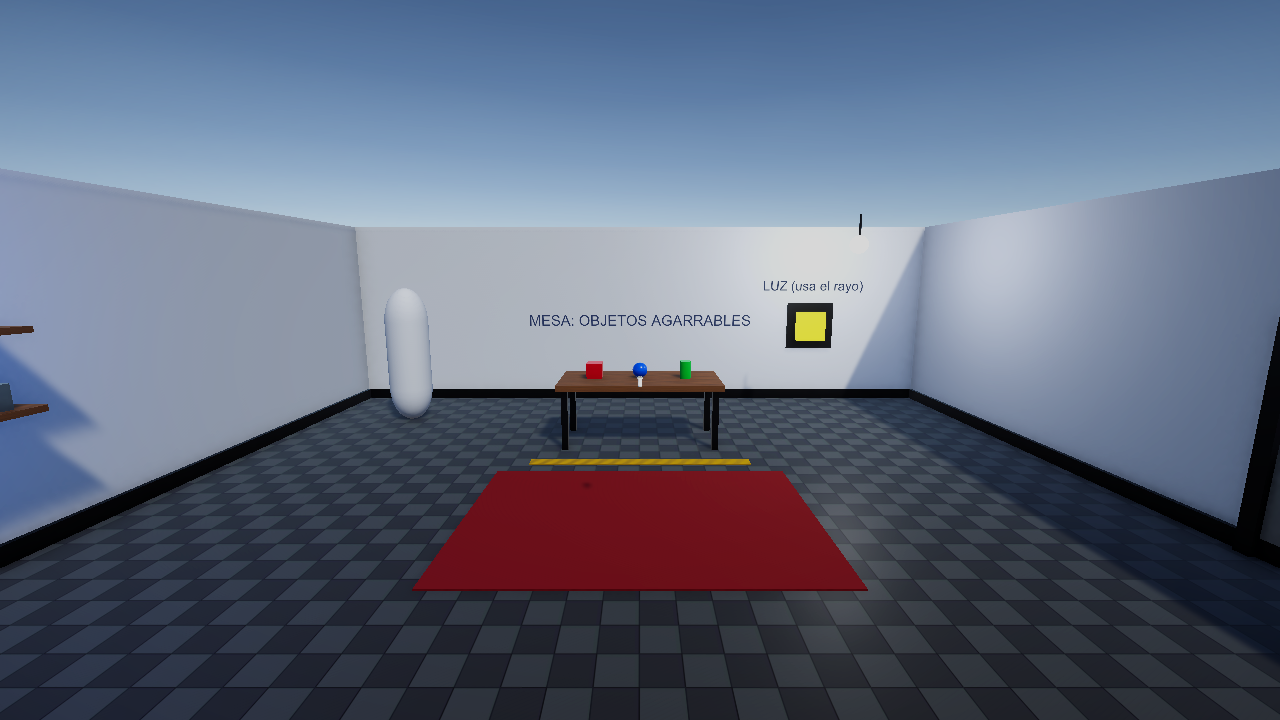
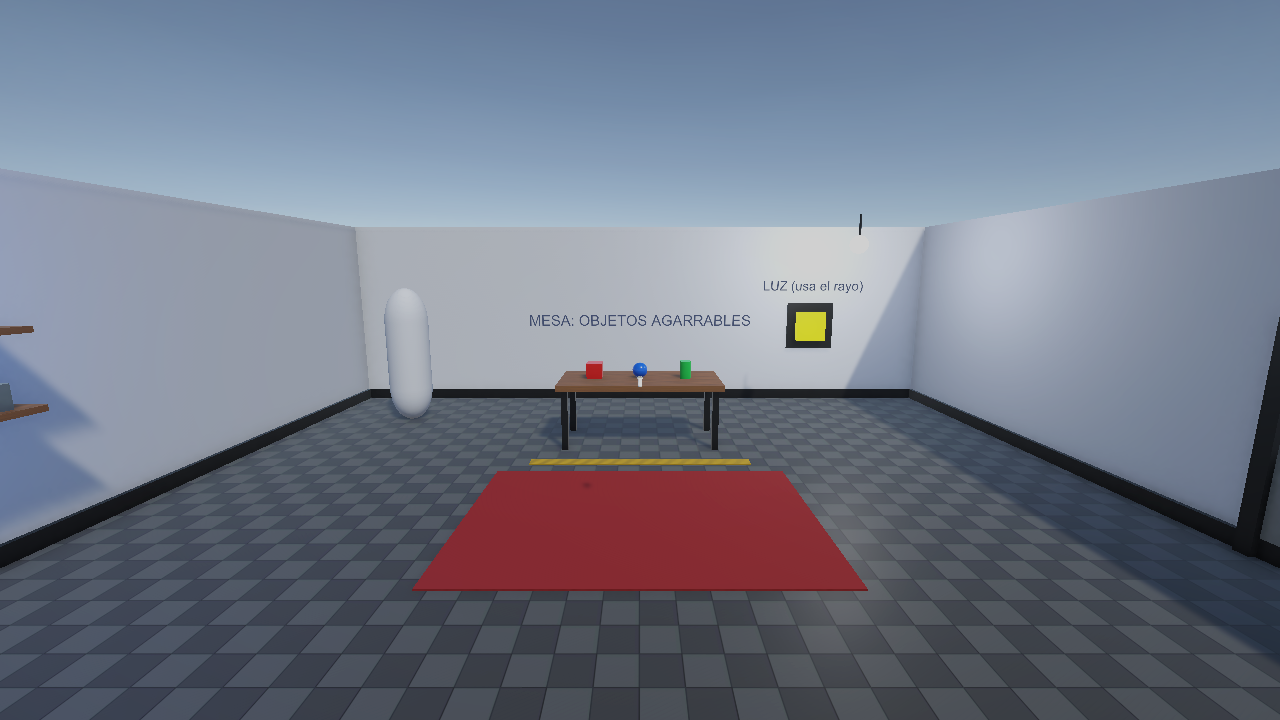
Camara PC con cursor bloqueado, correr con Shift, agacharse; README y capturas actualizados

diff --git a/Assets/Scripts/PCMouseInteraction.cs b/Assets/Scripts/PCMouseInteraction.cs
@@ -1,41 +1,139 @@
 using UnityEngine;
 using UnityEngine.InputSystem;
+using UnityEngine.InputSystem.XR;
 using UnityEngine.XR.Interaction.Toolkit;
 using UnityEngine.XR.Interaction.Toolkit.Interactables;
 using UnityEngine.XR.Interaction.Toolkit.Interactors;
-using UnityEngine.XR.Interaction.Toolkit.Locomotion.Teleportation;
+using UnityEngine.XR.Management;
 
-// Modo PC (sin visor): la mira del centro de la pantalla usa el XR Interaction Toolkit.
-// Clic izquierdo: agarrar / soltar objetos, pulsar el boton o abrir la puerta. F: teletransporte. H: mostrar/ocultar ayuda.
+// Modo PC (sin visor): camara en primera persona con mouse + teclado que usa el XR Interaction Toolkit.
+// Si hay un visor VR activo, este script no toca nada y el rig funciona con los mandos.
 public class PCMouseInteraction : MonoBehaviour
 {
+    [Header("Referencias XR")]
     [SerializeField] XRInteractionManager manager;
     [SerializeField] NearFarInteractor interactor;
-    [SerializeField] TeleportationProvider teleportProvider;
+    [SerializeField] Transform originTransform;
+    [SerializeField] Transform cameraOffset;
+    [SerializeField] Transform leftController;
+    [SerializeField] Transform rightController;
+    [SerializeField] GameObject deviceSimulator;
+
+    [Header("Ajustes PC")]
+    [SerializeField] float lookSensitivity = 0.08f;
+    [SerializeField] float walkSpeed = 2.5f;
+    [SerializeField] float runMultiplier = 2f;
+    [SerializeField] float crouchMultiplier = 0.5f;
+    [SerializeField] float standEyeHeight = 1.65f;
+    [SerializeField] float crouchEyeHeight = 0.95f;
     [SerializeField] float reach = 6f;
 
     Camera cam;
+    CharacterController controller;
     IXRSelectInteractable held;
+    bool pcMode;
+    float yaw, pitch, eyeHeight, verticalSpeed;
     string hint = "";
     bool showHelp = true;
     GUIStyle boxStyle, hintStyle, titleStyle;
 
     void Start()
     {
+        var xr = XRGeneralSettings.Instance;
+        bool headsetActive = xr != null && xr.Manager != null && xr.Manager.activeLoader != null;
+        if (deviceSimulator != null) deviceSimulator.SetActive(false);
+        if (headsetActive) { enabled = false; return; }
+
+        pcMode = true;
         cam = Camera.main;
+        eyeHeight = standEyeHeight;
+
+        foreach (var d in originTransform.GetComponentsInChildren<TrackedPoseDriver>(true)) d.enabled = false;
+        // Sin mandos reales el modality manager apagaria los controladores; los dejamos activos para el modo PC.
+        foreach (var m in originTransform.GetComponentsInChildren<UnityEngine.XR.Interaction.Toolkit.Inputs.XRInputModalityManager>(true)) m.enabled = false;
+        if (leftController != null) leftController.gameObject.SetActive(true);
+        if (rightController != null) rightController.gameObject.SetActive(true);
+        cam.transform.localPosition = Vector3.zero;
+        cam.transform.localRotation = Quaternion.identity;
+        cameraOffset.localPosition = new Vector3(0f, eyeHeight, 0f);
+
+        foreach (var c in new[] { leftController, rightController })
+        {
+            if (c == null) continue;
+            c.SetParent(cam.transform, false);
+            c.localRotation = Quaternion.identity;
+        }
+        if (leftController != null) leftController.localPosition = new Vector3(-0.25f, -0.25f, 0.5f);
+        if (rightController != null) rightController.localPosition = new Vector3(0.25f, -0.25f, 0.6f);
+
+        controller = originTransform.GetComponent<CharacterController>();
+        if (controller != null)
+        {
+            controller.height = 1.7f;
+            controller.radius = 0.25f;
+            controller.center = new Vector3(0f, 0.85f, 0f);
+        }
+        yaw = originTransform.eulerAngles.y;
+        LockCursor(true);
+    }
+
+    void LockCursor(bool locked)
+    {
+        Cursor.lockState = locked ? CursorLockMode.Locked : CursorLockMode.None;
+        Cursor.visible = !locked;
     }
 
     void Update()
     {
-        if (cam == null) { cam = Camera.main; return; }
+        if (!pcMode) return;
         var mouse = Mouse.current;
         var kb = Keyboard.current;
-        if (mouse == null) return;
+        if (mouse == null || kb == null) return;
 
-        if (kb != null && kb.hKey.wasPressedThisFrame) showHelp = !showHelp;
+        if (kb.escapeKey.wasPressedThisFrame) LockCursor(false);
+        if (kb.hKey.wasPressedThisFrame) showHelp = !showHelp;
+
+        bool locked = Cursor.lockState == CursorLockMode.Locked;
+        if (!locked)
+        {
+            if (mouse.leftButton.wasPressedThisFrame) LockCursor(true);
+            return;
+        }
+
+        Look(mouse);
+        Move(kb);
         if (mouse.leftButton.wasPressedThisFrame) OnClick();
-        if (kb != null && kb.fKey.wasPressedThisFrame) TryTeleport();
+        if (kb.fKey.wasPressedThisFrame) TryTeleport();
         UpdateHint();
+    }
+
+    void Look(Mouse mouse)
+    {
+        var delta = mouse.delta.ReadValue() * lookSensitivity;
+        yaw += delta.x;
+        pitch = Mathf.Clamp(pitch - delta.y, -89f, 89f);
+        originTransform.rotation = Quaternion.Euler(0f, yaw, 0f);
+        cam.transform.localRotation = Quaternion.Euler(pitch, 0f, 0f);
+    }
+
+    void Move(Keyboard kb)
+    {
+        bool crouching = kb.cKey.isPressed || kb.leftCtrlKey.isPressed;
+        bool running = kb.leftShiftKey.isPressed && !crouching;
+
+        float targetEye = crouching ? crouchEyeHeight : standEyeHeight;
+        eyeHeight = Mathf.MoveTowards(eyeHeight, targetEye, 4f * Time.deltaTime);
+        cameraOffset.localPosition = new Vector3(0f, eyeHeight, 0f);
+
+        float x = (kb.dKey.isPressed ? 1f : 0f) - (kb.aKey.isPressed ? 1f : 0f);
+        float z = (kb.wKey.isPressed ? 1f : 0f) - (kb.sKey.isPressed ? 1f : 0f);
+        float speed = walkSpeed * (running ? runMultiplier : 1f) * (crouching ? crouchMultiplier : 1f);
+        var move = (originTransform.right * x + originTransform.forward * z);
+        if (move.sqrMagnitude > 1f) move.Normalize();
+
+        if (controller == null) { originTransform.position += move * speed * Time.deltaTime; return; }
+        verticalSpeed = controller.isGrounded ? -1f : verticalSpeed + Physics.gravity.y * Time.deltaTime;
+        controller.Move((move * speed + Vector3.up * verticalSpeed) * Time.deltaTime);
     }
 
     void UpdateHint()
@@ -55,7 +153,7 @@ public class PCMouseInteraction : MonoBehaviour
             hint = door != null ? (door.IsOpen ? "[Clic izquierdo] Cerrar puerta" : "[Clic izquierdo] Abrir puerta")
                                 : "[Clic izquierdo] Encender / apagar la luz";
         }
-        else if (hit.collider.GetComponentInParent<TeleportationArea>() != null)
+        else if (hit.collider.GetComponentInParent<UnityEngine.XR.Interaction.Toolkit.Locomotion.Teleportation.TeleportationArea>() != null)
             hint = "[F] Teletransportarse aqui";
     }
 
@@ -86,14 +184,16 @@ public class PCMouseInteraction : MonoBehaviour
 
     void TryTeleport()
     {
-        if (teleportProvider == null) return;
         if (!Physics.Raycast(cam.transform.position, cam.transform.forward, out var hit, 30f)) return;
-        if (hit.collider.GetComponentInParent<TeleportationArea>() == null) return;
-        teleportProvider.QueueTeleportRequest(new TeleportRequest { destinationPosition = hit.point });
+        if (hit.collider.GetComponentInParent<UnityEngine.XR.Interaction.Toolkit.Locomotion.Teleportation.TeleportationArea>() == null) return;
+        if (controller != null) controller.enabled = false;
+        originTransform.position = hit.point;
+        if (controller != null) controller.enabled = true;
     }
 
     void OnGUI()
     {
+        if (!pcMode) return;
         if (boxStyle == null)
         {
             boxStyle = new GUIStyle(GUI.skin.box) { alignment = TextAnchor.UpperLeft, fontSize = 15, padding = new RectOffset(12, 12, 10, 10) };
@@ -104,20 +204,23 @@ public class PCMouseInteraction : MonoBehaviour
         float cx = Screen.width * 0.5f, cy = Screen.height * 0.5f;
         GUI.Box(new Rect(cx - 3, cy - 3, 6, 6), GUIContent.none);
 
-        if (!string.IsNullOrEmpty(hint))
+        if (Cursor.lockState != CursorLockMode.Locked)
+            GUI.Box(new Rect(cx - 220, cy - 20, 440, 40), "Haz clic para volver a controlar la camara", hintStyle);
+        else if (!string.IsNullOrEmpty(hint))
             GUI.Box(new Rect(cx - 220, cy + 30, 440, 36), hint, hintStyle);
 
         if (showHelp)
         {
-            GUI.Box(new Rect(12, 12, 400, 232),
+            GUI.Box(new Rect(12, 12, 430, 262),
                 "CONTROLES (PC)\n" +
                 "W A S D  -  Moverse\n" +
-                "Q / E  -  Bajar / subir\n" +
+                "Shift izquierdo (mantener)  -  Correr\n" +
+                "C o Ctrl izquierdo (mantener)  -  Agacharse\n" +
                 "Mouse  -  Mirar\n" +
                 "Clic izquierdo  -  Agarrar, soltar, pulsar, abrir puerta\n" +
                 "F  -  Teletransportarse al piso apuntado\n" +
                 "H  -  Mostrar / ocultar esta ayuda\n" +
-                "Esc  -  Liberar el cursor\n\n" +
+                "Esc  -  Liberar el cursor del mouse\n\n" +
                 "Todos los objetos sueltos se pueden agarrar.", boxStyle);
         }
         else

diff --git a/README.md b/README.md
@@ -3,7 +3,7 @@
 | | |
 |---|---|
 | **Apellidos y nombres** | Sánchez Galán Jeremy Antonio |
-| **Código del estudiante** | _(completar)_ |
+| **Código del estudiante** | 2221899925 |
 | **Curso** | Laboratorio de Realidad Extendida (XR) para Videojuegos |
 | **Docente** | Victor Alejandro Arroyo Castro |
 
@@ -17,15 +17,16 @@ Escena principal: `Assets/Scenes/EC_XR_SanchezJeremy.unity`.
 - **Objetos manipulables:** todos los objetos sueltos (cubo, esfera, cilindro, cajas, barril, cajas y libros del estante; 17 en total) con `Rigidbody` y `XR Grab Interactable`.
 - **Interacción a distancia:** botón amarillo en la pared norte; con el rayo enciende/apaga la luz de la sala y cambia su color (`RayInteractionToggle.cs`).
 - **Detalles:** piso con baldosas, alfombra, mesa con patas, estante, cajas, barril, marco de puerta, lámpara, rótulos y post-procesado (tonemapping, bloom, viñeta).
-- **Modo PC:** `PCMouseInteraction.cs` usa el XR Interaction Toolkit desde la mira del ratón.
+- **Modo PC:** `PCMouseInteraction.cs` da una cámara en primera persona (correr, agacharse, cursor bloqueado) y usa el XR Interaction Toolkit desde la mira del ratón. Si hay un visor VR activo, se desactiva solo.
 - **Puerta interactiva:** se abre y cierra con clic (PC) o con el rayo (VR) (`DoorController.cs`).
 - **Reto libre:** teletransporte sobre el piso (`Teleportation Area`) y contador de objetos agarrados en un texto 3D (`GrabCounter.cs`).
 
 ## Controles
 **Con visor VR (OpenXR):** gatillo lateral (grip) para agarrar, apuntar con el rayo y gatillo para pulsar el botón, joystick hacia adelante para apuntar el teletransporte.
 
-**En PC sin visor (ratón y teclado):**
-- `W A S D`: moverse. `Q` / `E`: bajar / subir. `Mouse`: mirar. `Esc`: liberar el cursor.
+**En PC sin visor (ratón y teclado):** el cursor queda bloqueado dentro de la ventana de juego.
+- `W A S D`: moverse. `Shift izquierdo` (mantener): correr. `C` o `Ctrl izquierdo` (mantener): agacharse.
+- `Mouse`: mirar. `Esc`: liberar el cursor (un clic vuelve a controlar la cámara).
 - **Clic izquierdo** sobre el punto central (mira): agarrar el objeto apuntado; otro clic lo suelta o lo lanza. Sobre el botón amarillo enciende/apaga la luz; sobre la puerta la abre/cierra.
 - `F`: teletransportarse al punto del piso apuntado.
 - `H`: mostrar/ocultar el panel de ayuda. Al apuntar a un objeto aparece un texto con la acción disponible.
@@ -34,7 +35,8 @@ Escena principal: `Assets/Scenes/EC_XR_SanchezJeremy.unity`.
 ![Sala general](Screenshots/01_sala_general.png)
 ![Objetos en la mesa](Screenshots/02_objetos_mesa.png)
 ![Botón de rayo y contador](Screenshots/03_boton_rayo_y_contador.png)
-![Estante y puerta](Screenshots/04_estante_y_puerta.png)
+![Estante y cajas](Screenshots/04_estante_y_cajas.png)
+![Puerta abierta](Screenshots/05_puerta_abierta.png)
 
 ## Video demostrativo
 _(agregar enlace, máximo 1 minuto)_
@@ -42,7 +44,7 @@ _(agregar enlace, máximo 1 minuto)_
 ## Tecnologías y paquetes
 - Unity 6000.3.10f1
 - Universal Render Pipeline 17.3.0
-- XR Interaction Toolkit 3.6.1 (samples: Starter Assets, XR Device Simulator)
+- XR Interaction Toolkit 3.6.1 (sample: Starter Assets)
 - OpenXR 1.18.0 (XR Plug-in Management)
 - Input System 1.18.0
 - TextMesh Pro
